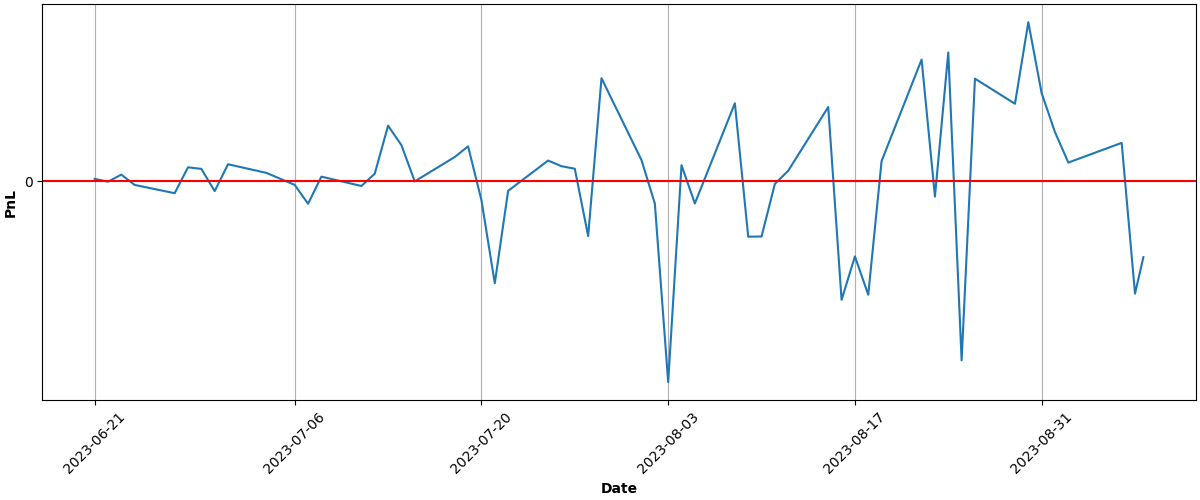
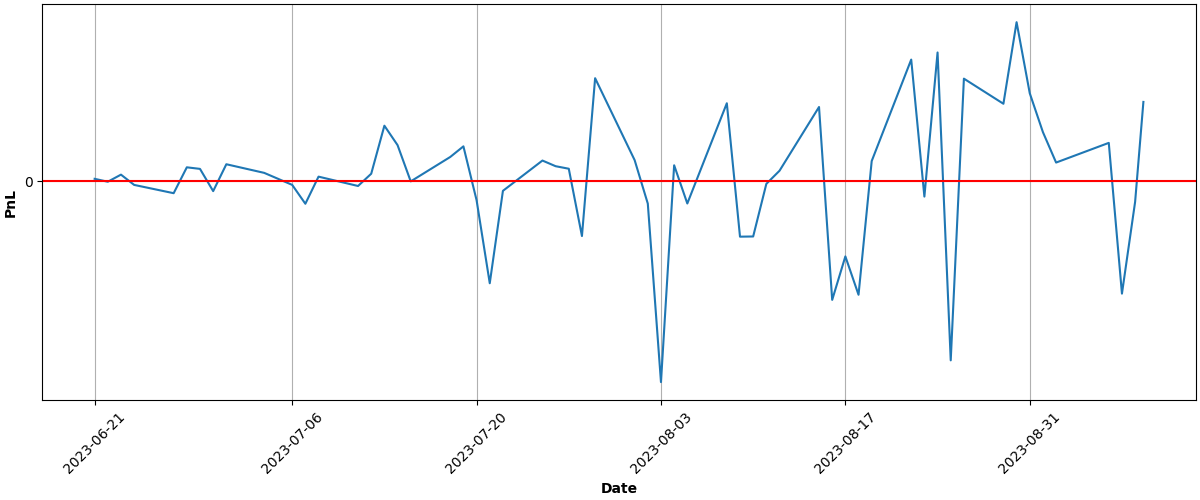
Automated Buy At Fri Sep  8 15:04:24 UTC 2023 Run ID 6123337482

diff --git a/README.md b/README.md
@@ -68,9 +68,9 @@ Results
 
 | Asset | Average Price | Current Price | ROI | 📈 |
 | --- | --- | --- | --- | --- |
-| FNGU | $182.193750232 | $176.21 | -3.28% | &#128308;&#128546; |
-| SVIX | $28.031733333 | $30.09 | 7.34% | &#128994;&#128515; |
-| **Total** |  |  | **2.42%** | &#128994;&#128518; |
+| FNGU | $182.154802911 | $179.9499 | -1.21% | &#128308;&#128546; |
+| SVIX | $28.031733333 | $31.54 | 12.52% | &#128994;&#128515; |
+| **Total** |  |  | **6.10%** | &#128994;&#128518; |
 
 ### PnL over time (calculations may not be accurate):
 
@@ -81,6 +81,6 @@ Results
 ---
 
 
-Updated at 2023-09-07 15:04:36
+Updated at 2023-09-08 15:04:43
 
 
